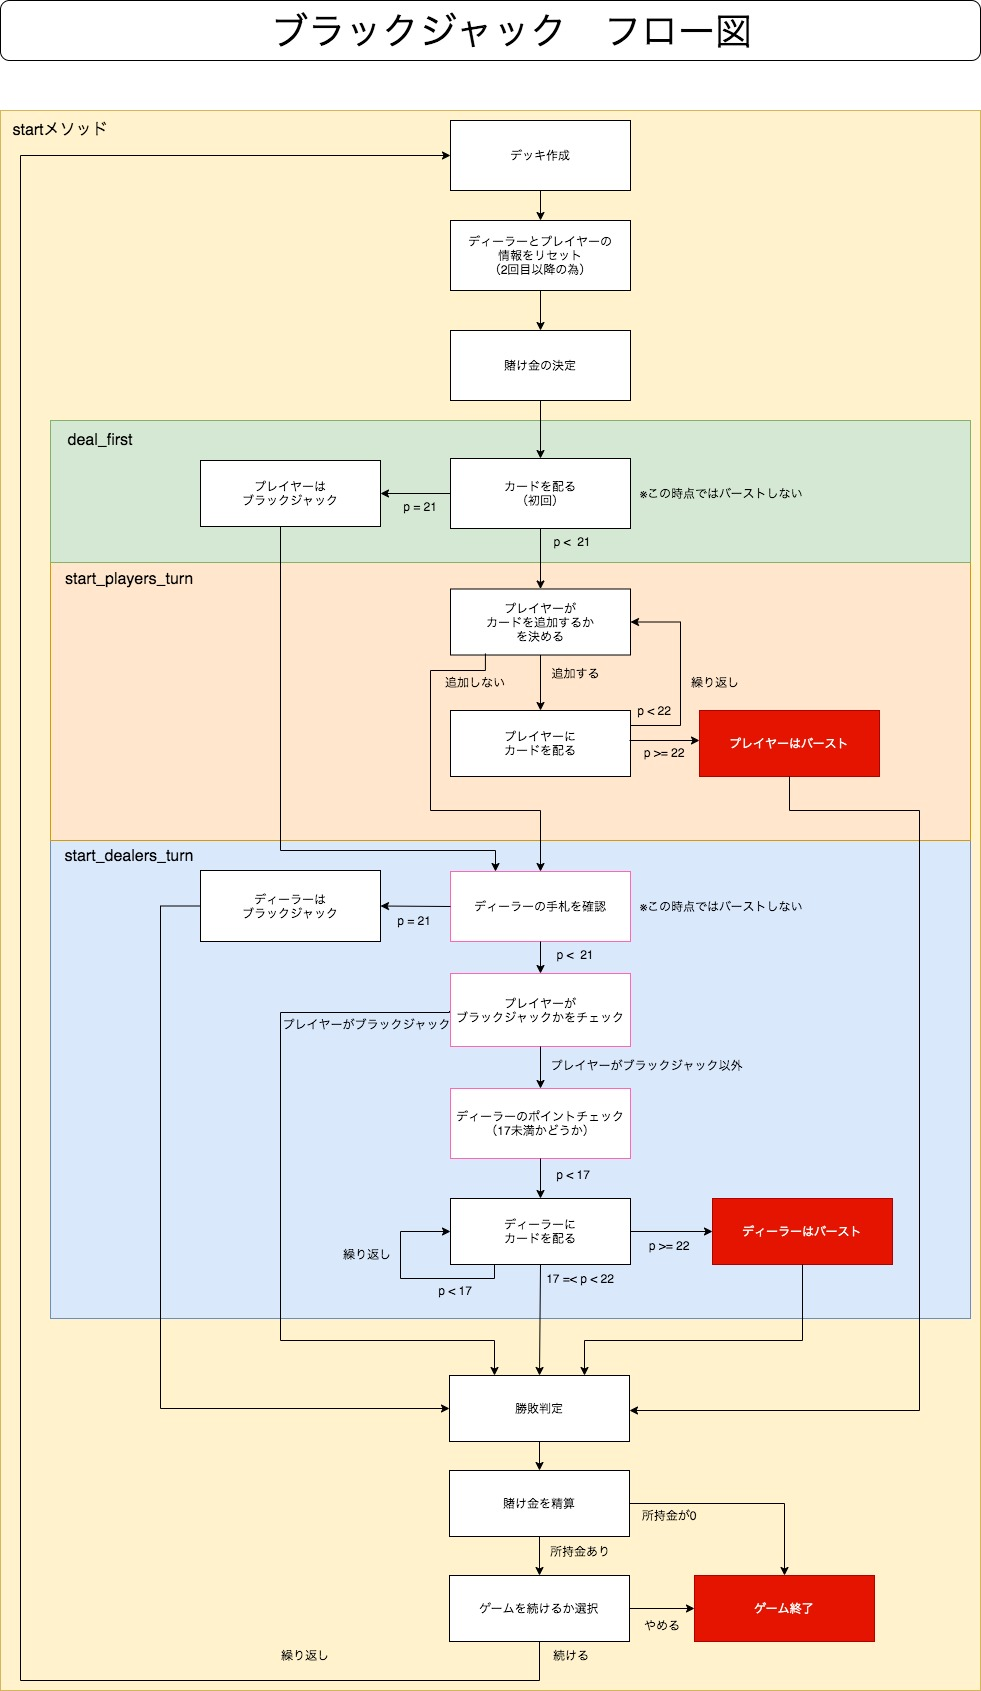
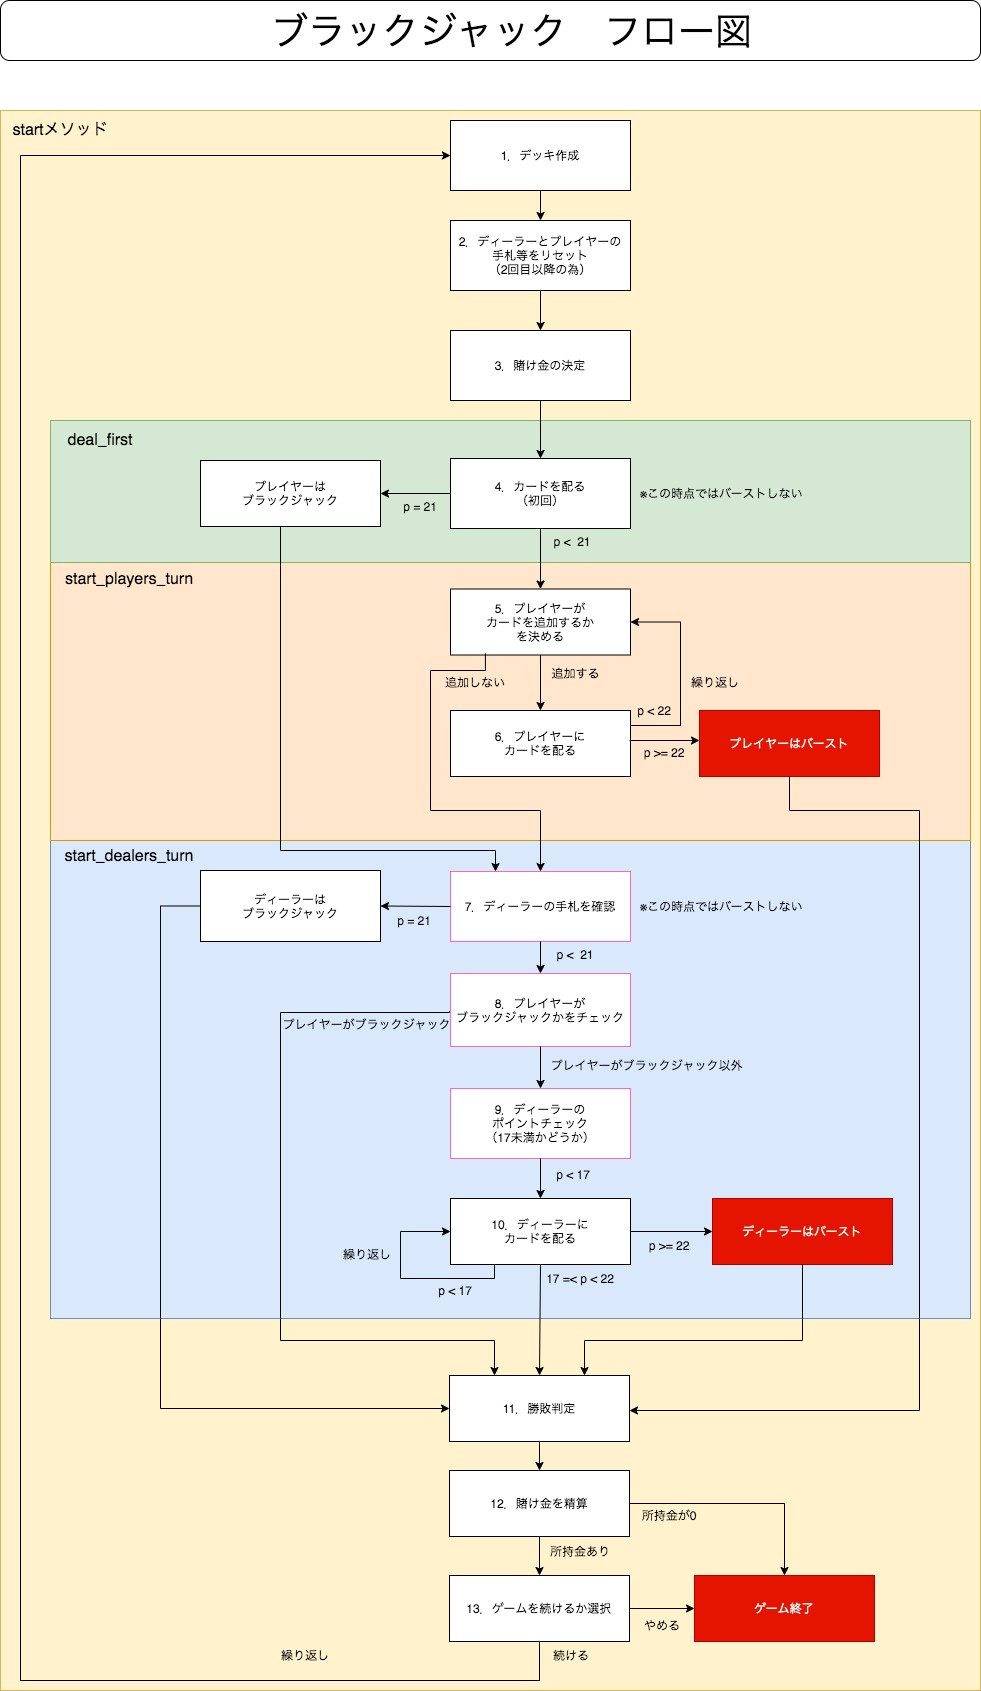
6/14時点　レビュー内容を修正

diff --git a/blackjack.rb b/blackjack.rb
@@ -2,23 +2,11 @@ require_relative "deck"
 require_relative "card"
 require_relative "player"
 require_relative "dealer"
+require_relative "rule"
 require_relative "message"
 
 class Blackjack
-  BLACKJACK_NUM = 21
-  ADJUST_NUM = 10
-  HIT_NUM = 1
-  STAND_NUM = 2
-  STOP_DRAWING_NUM = 17
-  WIN = true
-  LOSS = false
-  BLACKJACK_RATE = 2.5
-  NORMAL_WIN_RATE = 2
-  TIE_RATE = 1
-  LOSS_RATE = 0
-  GAME_CONTINUE_NUM = 1
-  GAME_END_NUM = 2
-
+  include Rule
   include Message
 
   def initialize(dealer, player)
@@ -38,7 +26,7 @@ class Blackjack
       @bet = request_bet
 
       deal_first
-      
+
       start_players_turn unless @player.blackjack?
       start_dealers_turn unless @player.bust?
 
@@ -73,7 +61,7 @@ class Blackjack
       deal_card_to(@player)
       deal_card_to(@dealer)
     end
-    
+
     show_hand_msg(@dealer, first_time: true)
     show_hand_msg(@player)
 
@@ -82,7 +70,7 @@ class Blackjack
 
   def deal_card_to(character)
     drawn_card = @dealer.draw_card(@deck)
-    character.receive(drawn_card, BLACKJACK_NUM, ADJUST_NUM)
+    character.receive(drawn_card)
   end
 
   def start_players_turn
@@ -161,13 +149,13 @@ class Blackjack
     info_status_or_points(@dealer)
 
     if @dealer.bust?
-      @player.set(WIN)
+      @player.game_result = WIN
     elsif @player.bust?
-      @player.set(LOSS)
+      @player.game_result = LOSS
     elsif @dealer.point < @player.point
-      @player.set(WIN)
+      @player.game_result = WIN
     elsif @player.point < @dealer.point
-      @player.set(LOSS)
+      @player.game_result = LOSS
     else
       judge_winner_when_same_point
     end
@@ -175,9 +163,9 @@ class Blackjack
 
   def judge_winner_when_same_point
     if @player.blackjack? && !@dealer.blackjack?
-      @player.set(WIN)
+      @player.game_result = WIN
     elsif !@player.blackjack? && @dealer.blackjack?
-      @player.set(LOSS)
+      @player.game_result = LOSS
     end
   end
 
@@ -234,14 +222,14 @@ class Blackjack
   end
 
   def request_continue_or_end
-    continue_or_end_msg
+    continue_or_end_msg(GAME_CONTINUE_NUM, GAME_END_NUM)
 
     action_num = 0
     loop do
       action_num = @player.select_action
       break if action_num.between?(GAME_CONTINUE_NUM, GAME_END_NUM)
 
-      error_msg_about_continue_or_end
+      error_msg_about_continue_or_end(GAME_CONTINUE_NUM, GAME_END_NUM)
     end
     action_num
   end

diff --git a/character.rb b/character.rb
@@ -1,20 +1,19 @@
+require_relative "rule"
+
 class Character
   attr_reader :hand_cards, :point, :point_list
 
-  BLACKJACK_HAND_CARDS_SIZE = 2
-  BLACKJACK_POINT_LIST_SIZE = 2
-  BLACKJACK = 0
-  BUST = 1
+  include Rule
 
   def reset
     @hand_cards = []
-    @status = false
+    @status = nil
   end
 
   # カードを手札に加える
-  def receive(drawn_card, blackjack_num, adjust_num)
+  def receive(drawn_card)
     @hand_cards << drawn_card
-    calc_point(blackjack_num, adjust_num)
+    calc_point
   end
 
   def blackjack?
@@ -27,24 +26,24 @@ class Character
 
   private
 
-  def calc_point(blackjack_num, adjust_num)
+  def calc_point
     @point_list = []
     @point_list << @point = @hand_cards.map(&:point).sum
-    if has_a? && (@point + adjust_num <= blackjack_num)
-      @point += adjust_num
+    if has_a? && (@point + ADJUST_NUM <= BLACKJACK_NUM)
+      @point += ADJUST_NUM
       @point_list.unshift(@point)
     end
-    change_status(blackjack_num)
+    change_status
   end
 
   def has_a?
     @hand_cards.map(&:is_ace?).any?
   end
 
-  def change_status(blackjack_num)
-    if @point == blackjack_num && @hand_cards.size == BLACKJACK_HAND_CARDS_SIZE
+  def change_status
+    if @point == BLACKJACK_NUM && @hand_cards.size == BLACKJACK_HAND_CARDS_SIZE
       @status = BLACKJACK
-    elsif @point > blackjack_num
+    elsif @point > BLACKJACK_NUM
       @status = BUST
     end
   end

diff --git a/message.rb b/message.rb
@@ -206,22 +206,22 @@ module Message
     TEXT
   end
 
-  def continue_or_end_msg
+  def continue_or_end_msg(game_continue_num, game_end_num)
     puts <<~TEXT
 
       ゲームを続けますか？
       ----------------------------------------
 
-      #{Blackjack::GAME_CONTINUE_NUM}.ゲームを続ける #{Blackjack::GAME_END_NUM}.ゲームをやめる
+      #{game_continue_num}.ゲームを続ける #{game_end_num}.ゲームをやめる
 
       ----------------------------------------
     TEXT
   end
 
-  def error_msg_about_continue_or_end
+  def error_msg_about_continue_or_end(game_continue_num, game_end_num)
     puts <<~TEXT
       ----------------------------------------
-        error ： #{Blackjack::GAME_CONTINUE_NUM} か #{Blackjack::GAME_END_NUM} を入力してください。
+        error ： #{game_continue_num} か #{game_end_num} を入力してください。
       ----------------------------------------
     TEXT
   end

diff --git a/player.rb b/player.rb
@@ -2,6 +2,7 @@ require_relative "character"
 
 class Player < Character
   attr_reader :money, :bet
+  attr_writer :game_result
 
   INITIAL_MONEY = 10_000
 
@@ -11,7 +12,7 @@ class Player < Character
 
   def reset
     super
-    @game_result = 0
+    @game_result = nil
   end
 
   def decide_bet
@@ -26,16 +27,12 @@ class Player < Character
     action_num = gets.chomp.to_i
   end
 
-  def set(game_result)
-    @game_result = game_result
-  end
-
   def win?
-    @game_result == Blackjack::WIN
+    @game_result == WIN
   end
 
   def loss?
-    @game_result == Blackjack::LOSS
+    @game_result == LOSS
   end
 
   def settle(dividend)

diff --git a/rule.rb b/rule.rb
@@ -1,0 +1,19 @@
+module Rule
+  BLACKJACK_NUM = 21
+  ADJUST_NUM = 10
+  BLACKJACK_HAND_CARDS_SIZE = 2
+  BLACKJACK_POINT_LIST_SIZE = 2
+  BLACKJACK = 0
+  BUST = 1
+  HIT_NUM = 1
+  STAND_NUM = 2
+  STOP_DRAWING_NUM = 17
+  WIN = 1
+  LOSS = 0
+  BLACKJACK_RATE = 2.5
+  NORMAL_WIN_RATE = 2
+  TIE_RATE = 1
+  LOSS_RATE = 0
+  GAME_CONTINUE_NUM = 1
+  GAME_END_NUM = 2
+end
